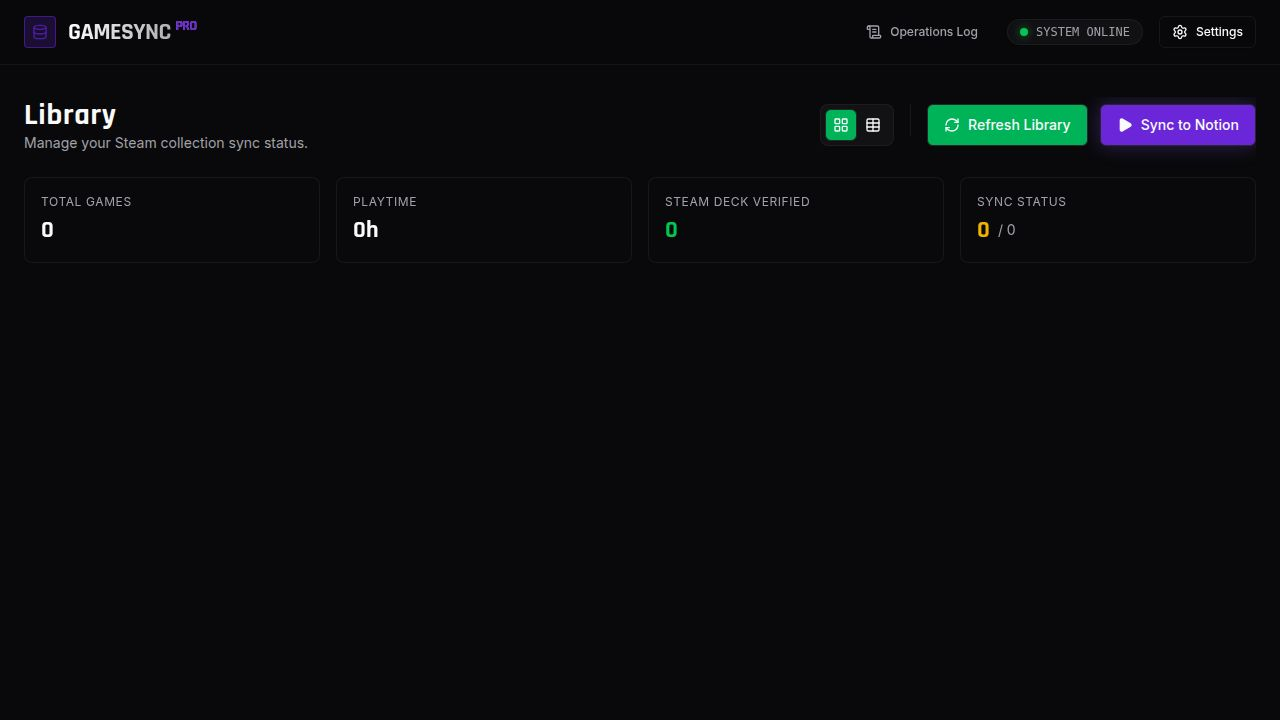
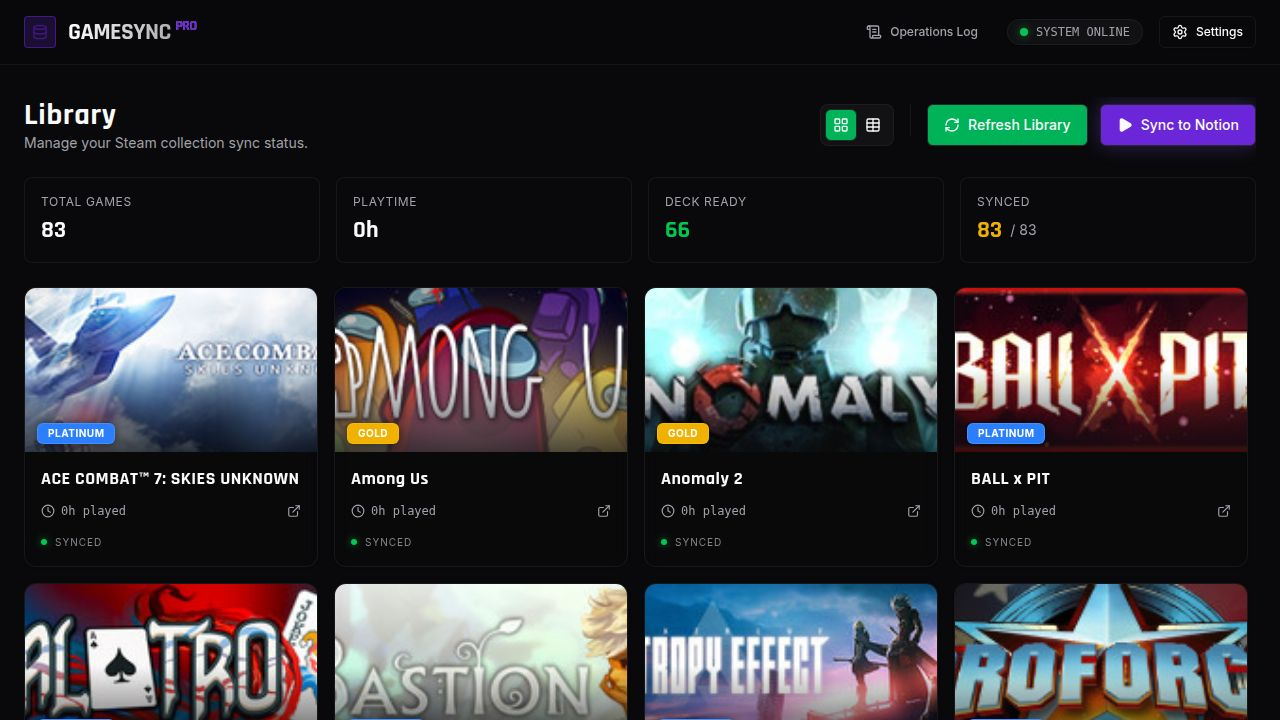
Improve website layout and appearance on mobile devices
Adjust responsive design for header, main content, and buttons in dashboard.tsx to optimize mobile view.

Replit-Commit-Author: Agent
Replit-Commit-Session-Id: a3a3d378-f1e6-4a77-8cff-d8fa71f9fa4d
Replit-Commit-Checkpoint-Type: full_checkpoint
Replit-Commit-Event-Id: 624086e9-7ae3-4739-98bd-970777a2afdb
Replit-Commit-Screenshot-Url: https://storage.googleapis.com/screenshot-production-us-central1/7d8474cf-408e-4098-9d85-fa24782ecb65/a3a3d378-f1e6-4a77-8cff-d8fa71f9fa4d/YGNiQy4
Replit-Helium-Checkpoint-Created: true

diff --git a/client/src/pages/dashboard.tsx b/client/src/pages/dashboard.tsx
@@ -196,22 +196,22 @@ export default function Dashboard() {
     <div className="min-h-screen bg-background text-foreground flex flex-col font-sans selection:bg-primary/30">
       {/* Header */}
       <header className="border-b border-border/40 bg-background/80 backdrop-blur-md sticky top-0 z-50">
-        <div className="container mx-auto px-6 h-16 flex items-center justify-between">
-          <div className="flex items-center gap-3">
-            <div className="w-8 h-8 rounded bg-primary/20 border border-primary/50 flex items-center justify-center">
-              <Database className="w-4 h-4 text-primary animate-pulse" />
+        <div className="container mx-auto px-4 md:px-6 h-14 md:h-16 flex items-center justify-between">
+          <div className="flex items-center gap-2 md:gap-3">
+            <div className="w-7 h-7 md:w-8 md:h-8 rounded bg-primary/20 border border-primary/50 flex items-center justify-center">
+              <Database className="w-3.5 h-3.5 md:w-4 md:h-4 text-primary animate-pulse" />
             </div>
-            <h1 className="text-2xl font-display font-bold tracking-tight bg-clip-text text-transparent bg-gradient-to-r from-white to-white/60">
-              GAMESYNC <span className="text-primary text-sm align-top">PRO</span>
+            <h1 className="text-lg md:text-2xl font-display font-bold tracking-tight bg-clip-text text-transparent bg-gradient-to-r from-white to-white/60">
+              GAMESYNC <span className="text-primary text-[10px] md:text-sm align-top">PRO</span>
             </h1>
           </div>
 
-          <div className="flex items-center gap-4">
+          <div className="flex items-center gap-2 md:gap-4">
             <Dialog open={openLogs} onOpenChange={setOpenLogs}>
               <DialogTrigger asChild>
-                <Button variant="ghost" size="sm" className="gap-2 text-muted-foreground hover:text-foreground">
+                <Button variant="ghost" size="sm" className="gap-1 md:gap-2 text-muted-foreground hover:text-foreground px-2 md:px-3">
                   <ScrollText className="w-4 h-4" />
-                  Operations Log
+                  <span className="hidden sm:inline">Operations Log</span>
                 </Button>
               </DialogTrigger>
               <DialogContent className="sm:max-w-[600px] border-border/50 bg-card/95 backdrop-blur-xl max-h-[80vh] flex flex-col">
@@ -241,9 +241,9 @@ export default function Dashboard() {
 
             <Dialog open={openSettings} onOpenChange={setOpenSettings}>
               <DialogTrigger asChild>
-                <Button variant="outline" size="sm" className="gap-2 border-border/50 hover:bg-muted/50">
+                <Button variant="outline" size="sm" className="gap-1 md:gap-2 border-border/50 hover:bg-muted/50 px-2 md:px-3">
                   <Settings className="w-4 h-4" />
-                  Settings
+                  <span className="hidden sm:inline">Settings</span>
                 </Button>
               </DialogTrigger>
               <DialogContent className="sm:max-w-[500px] border-border/50 bg-card/95 backdrop-blur-xl">
@@ -363,17 +363,39 @@ export default function Dashboard() {
       </header>
 
       {/* Main Content */}
-      <main className="flex-1 container mx-auto px-6 py-8 flex gap-8 h-[calc(100vh-64px)] overflow-hidden">
+      <main className="flex-1 container mx-auto px-4 md:px-6 py-4 md:py-8 flex gap-4 md:gap-8 h-[calc(100vh-56px)] md:h-[calc(100vh-64px)] overflow-hidden">
         
         {/* Left Panel: Game Grid */}
-        <div className="flex-1 flex flex-col gap-6 overflow-hidden">
-          <div className="flex items-center justify-between shrink-0">
-             <div>
-               <h2 className="text-3xl font-display font-bold">Library</h2>
-               <p className="text-muted-foreground text-sm">Manage your Steam collection sync status.</p>
+        <div className="flex-1 flex flex-col gap-4 md:gap-6 overflow-hidden">
+          <div className="flex flex-col md:flex-row md:items-center justify-between gap-3 shrink-0">
+             <div className="flex items-center justify-between md:block">
+               <div>
+                 <h2 className="text-2xl md:text-3xl font-display font-bold">Library</h2>
+                 <p className="text-muted-foreground text-xs md:text-sm hidden md:block">Manage your Steam collection sync status.</p>
+               </div>
+               
+               {/* Mobile view toggle */}
+               <div className="bg-muted/30 p-1 rounded-lg border border-border/50 flex items-center md:hidden">
+                 <Button 
+                   variant={viewMode === 'grid' ? 'secondary' : 'ghost'} 
+                   size="icon" 
+                   className="h-8 w-8 transition-all"
+                   onClick={() => setViewMode('grid')}
+                 >
+                   <LayoutGrid className="w-4 h-4" />
+                 </Button>
+                 <Button 
+                   variant={viewMode === 'table' ? 'secondary' : 'ghost'} 
+                   size="icon" 
+                   className="h-8 w-8 transition-all"
+                   onClick={() => setViewMode('table')}
+                 >
+                   <TableIcon className="w-4 h-4" />
+                 </Button>
+               </div>
              </div>
              
-             <div className="flex gap-3">
+             <div className="flex flex-wrap gap-2 md:gap-3">
                <AnimatePresence mode="popLayout">
                  {viewMode === 'table' && (
                    <motion.div
@@ -381,14 +403,15 @@ export default function Dashboard() {
                     animate={{ opacity: 1, scale: 1, width: 'auto' }}
                     exit={{ opacity: 0, scale: 0.9, width: 0 }}
                     transition={{ duration: 0.2 }}
-                    className="overflow-hidden"
+                    className="overflow-hidden hidden md:block"
                    >
                      <ColumnManager columns={columns} onUpdateColumns={setColumns} />
                    </motion.div>
                  )}
                </AnimatePresence>
 
-               <div className="bg-muted/30 p-1 rounded-lg border border-border/50 flex items-center">
+               {/* Desktop view toggle */}
+               <div className="bg-muted/30 p-1 rounded-lg border border-border/50 hidden md:flex items-center">
                  <Button 
                    variant={viewMode === 'grid' ? 'secondary' : 'ghost'} 
                    size="icon" 
@@ -407,65 +430,68 @@ export default function Dashboard() {
                  </Button>
                </div>
 
-               <Separator orientation="vertical" className="h-8 bg-border/50 mx-1" />
+               <Separator orientation="vertical" className="h-8 bg-border/50 mx-1 hidden md:block" />
 
                <Button 
                  variant="secondary" 
                  onClick={loadGames} 
                  disabled={refreshing}
-                 className="gap-2"
+                 className="gap-2 text-xs md:text-sm flex-1 md:flex-none"
                >
                  <RefreshCw className={cn("w-4 h-4", refreshing && "animate-spin")} />
-                 Refresh Library
+                 <span className="hidden sm:inline">Refresh Library</span>
+                 <span className="sm:hidden">Refresh</span>
                </Button>
                
                {config.craftCollectionId && (
                  <Button 
                    onClick={handleCraftSync} 
                    disabled={syncingCraft}
-                   className="gap-2 bg-purple-600 hover:bg-purple-700 text-white shadow-[0_0_20px_rgba(147,51,234,0.3)]"
+                   className="gap-2 bg-purple-600 hover:bg-purple-700 text-white shadow-[0_0_20px_rgba(147,51,234,0.3)] text-xs md:text-sm"
                  >
                    {syncingCraft ? <RefreshCw className="w-4 h-4 animate-spin" /> : <PenTool className="w-4 h-4" />}
-                   Sync to Craft
+                   <span className="hidden sm:inline">Sync to Craft</span>
+                   <span className="sm:hidden">Craft</span>
                  </Button>
                )}
                
                <Button 
                  onClick={handleSync} 
                  disabled={syncingNotion}
-                 className="gap-2 bg-primary hover:bg-primary/90 text-primary-foreground shadow-[0_0_20px_rgba(139,92,246,0.3)]"
+                 className="gap-2 bg-primary hover:bg-primary/90 text-primary-foreground shadow-[0_0_20px_rgba(139,92,246,0.3)] text-xs md:text-sm flex-1 md:flex-none"
                >
                  {syncingNotion ? <RefreshCw className="w-4 h-4 animate-spin" /> : <Play className="w-4 h-4 fill-current" />}
-                 Sync to Notion
+                 <span className="hidden sm:inline">Sync to Notion</span>
+                 <span className="sm:hidden">Notion</span>
                </Button>
              </div>
           </div>
 
           {/* Stats Bar */}
-          <div className="grid grid-cols-4 gap-4 shrink-0">
-            <div className="p-4 rounded-lg bg-card/50 border border-border/50 backdrop-blur-sm">
-              <div className="text-muted-foreground text-xs uppercase tracking-wider mb-1">Total Games</div>
-              <div className="text-2xl font-display font-bold">{games.length}</div>
+          <div className="grid grid-cols-2 md:grid-cols-4 gap-2 md:gap-4 shrink-0">
+            <div className="p-3 md:p-4 rounded-lg bg-card/50 border border-border/50 backdrop-blur-sm">
+              <div className="text-muted-foreground text-[10px] md:text-xs uppercase tracking-wider mb-1">Total Games</div>
+              <div className="text-xl md:text-2xl font-display font-bold">{games.length}</div>
             </div>
-            <div className="p-4 rounded-lg bg-card/50 border border-border/50 backdrop-blur-sm">
-               <div className="text-muted-foreground text-xs uppercase tracking-wider mb-1">Playtime</div>
-               <div className="text-2xl font-display font-bold">
+            <div className="p-3 md:p-4 rounded-lg bg-card/50 border border-border/50 backdrop-blur-sm">
+               <div className="text-muted-foreground text-[10px] md:text-xs uppercase tracking-wider mb-1">Playtime</div>
+               <div className="text-xl md:text-2xl font-display font-bold">
                  {Math.round(games.reduce((acc, g) => acc + g.playtime_forever, 0) / 60)}h
                </div>
             </div>
-            <div className="p-4 rounded-lg bg-card/50 border border-border/50 backdrop-blur-sm">
-               <div className="text-muted-foreground text-xs uppercase tracking-wider mb-1">Steam Deck Verified</div>
-               <div className="text-2xl font-display font-bold text-green-500">
+            <div className="p-3 md:p-4 rounded-lg bg-card/50 border border-border/50 backdrop-blur-sm">
+               <div className="text-muted-foreground text-[10px] md:text-xs uppercase tracking-wider mb-1">Deck Ready</div>
+               <div className="text-xl md:text-2xl font-display font-bold text-green-500">
                  {games.filter(g => g.proton?.tier === 'native' || g.proton?.tier === 'platinum').length}
                </div>
             </div>
-            <div className="p-4 rounded-lg bg-card/50 border border-border/50 backdrop-blur-sm">
-               <div className="text-muted-foreground text-xs uppercase tracking-wider mb-1">Sync Status</div>
-               <div className="flex items-center gap-2">
-                 <span className="text-2xl font-display font-bold text-yellow-500">
+            <div className="p-3 md:p-4 rounded-lg bg-card/50 border border-border/50 backdrop-blur-sm">
+               <div className="text-muted-foreground text-[10px] md:text-xs uppercase tracking-wider mb-1">Synced</div>
+               <div className="flex items-center gap-1 md:gap-2">
+                 <span className="text-xl md:text-2xl font-display font-bold text-yellow-500">
                     {games.filter(g => g.notion_status === 'synced').length}
                  </span>
-                 <span className="text-sm text-muted-foreground">/ {games.length}</span>
+                 <span className="text-xs md:text-sm text-muted-foreground">/ {games.length}</span>
                </div>
             </div>
           </div>
